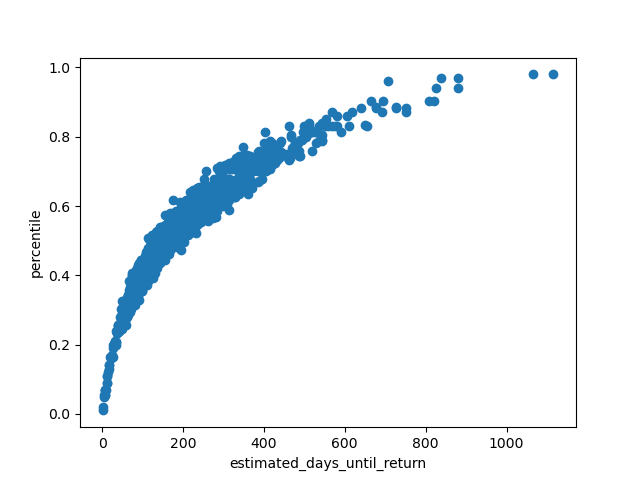
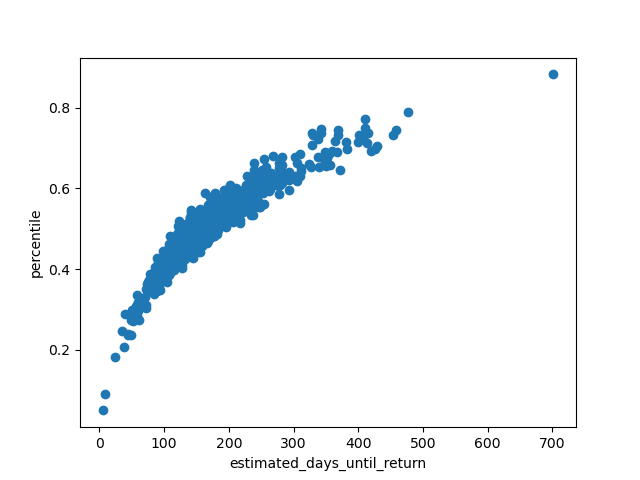
last minute optimization

diff --git a/projects/project_1/SPC/project_1/exp_analysis.py b/projects/project_1/SPC/project_1/exp_analysis.py
@@ -14,6 +14,8 @@ carts_avg=carts.join(carts_avg, on='cart_id', lsuffix='l')
 
 carts_avg=carts_avg[["cart_id","book_idl","purchase_date","percentile"]]
 
+carts_avg=carts_avg.groupby("book_idl").mean()
+
 carts_avg['expo'] = carts_avg['percentile']
 
 
@@ -28,10 +30,17 @@ carts_avg['estimated_return_date'] = carts_avg['purchase_date']+(carts_avg['esti
 #get estimated return date
 carts_avg['estimated_return_date']=pd.to_datetime(carts_avg['estimated_return_date'],unit='s')
 
-print(carts_avg['percentile'].corr(carts_avg['estimated_days_until_return']))
-print(carts_avg.describe())
+carts = carts.rename(columns={'book_id': 'book_idl'})
 
-print(carts_avg.head(10))
+carts = carts.groupby("book_idl").mean()
+
+carts_avg=carts.join(carts_avg, on='book_idl', lsuffix='_l')
+
+print(carts_avg.describe())
+print(carts_avg['percentile_l'].corr(carts_avg['estimated_days_until_return']))
+
+
+#print(carts_avg.head(10))
 
 fig= plt.scatter(carts_avg['estimated_days_until_return'], carts_avg['percentile'])
 plt.ylabel("percentile")
